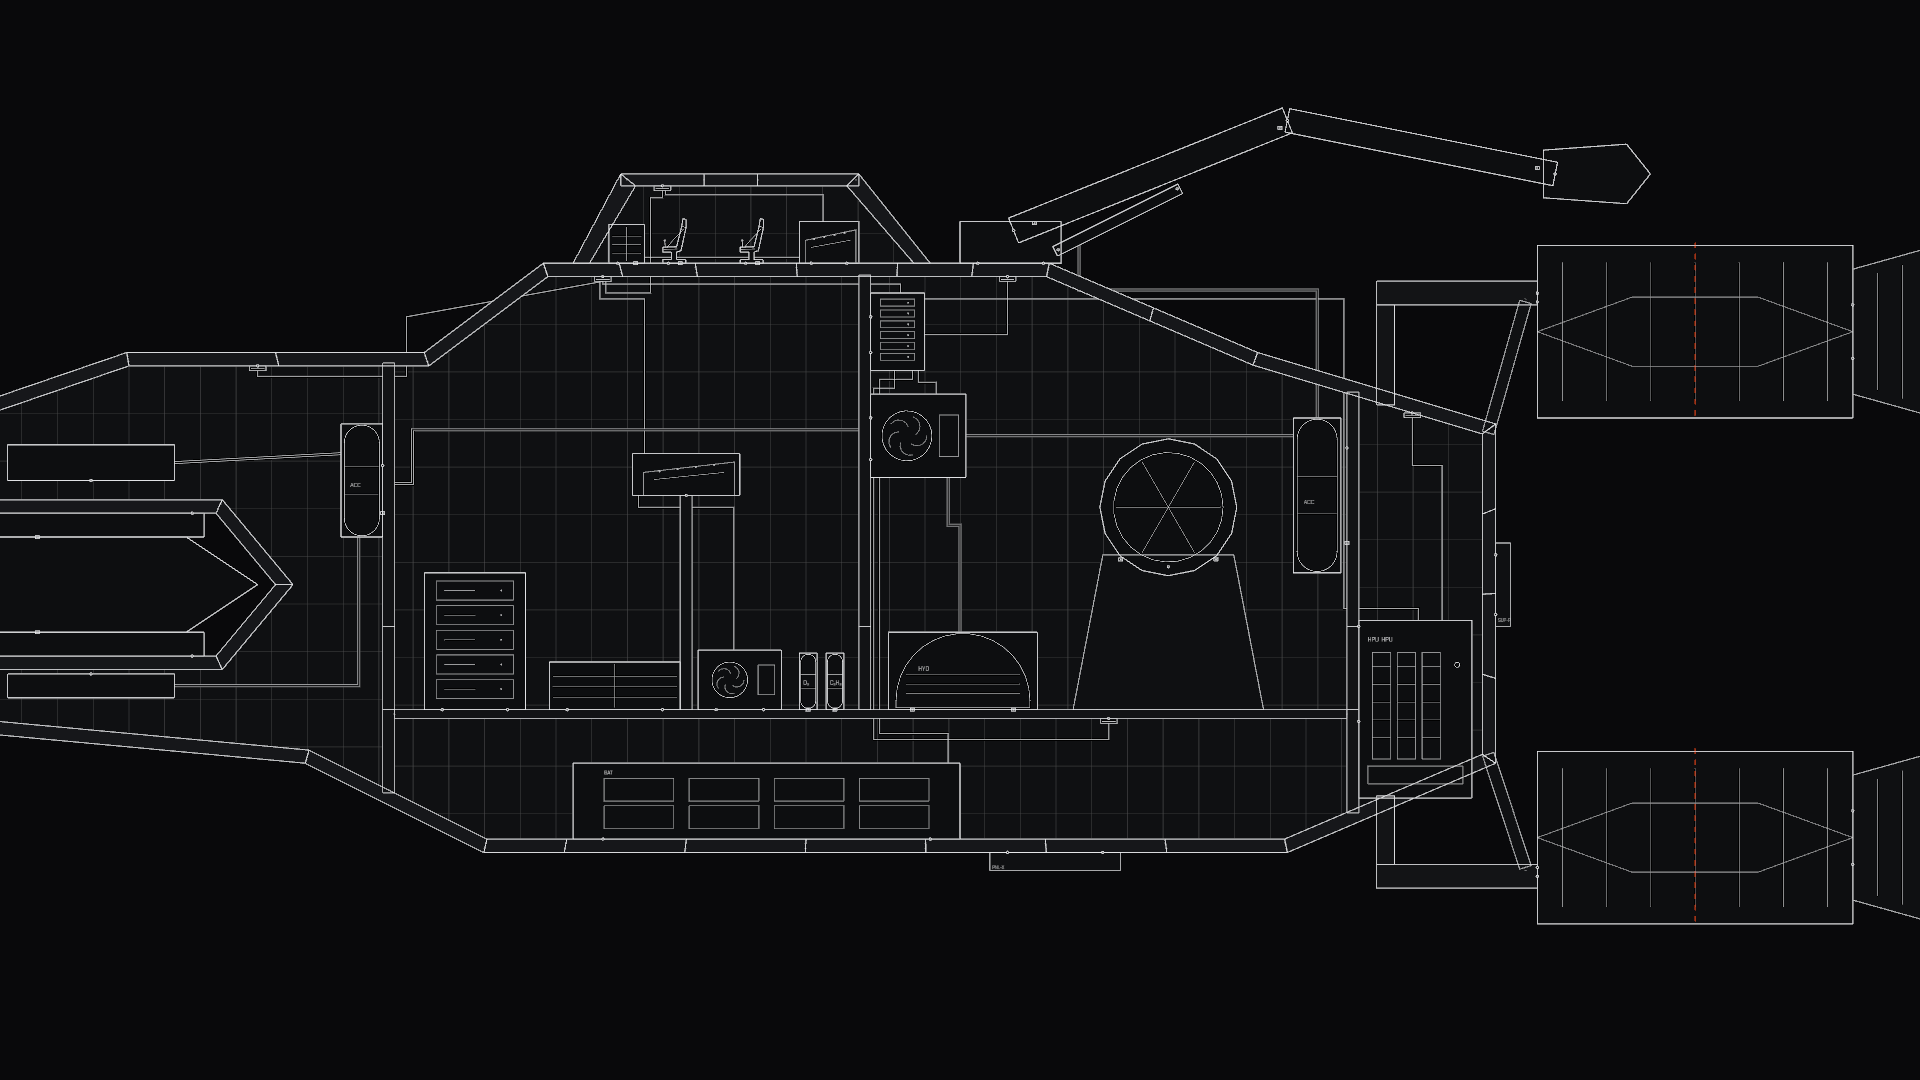
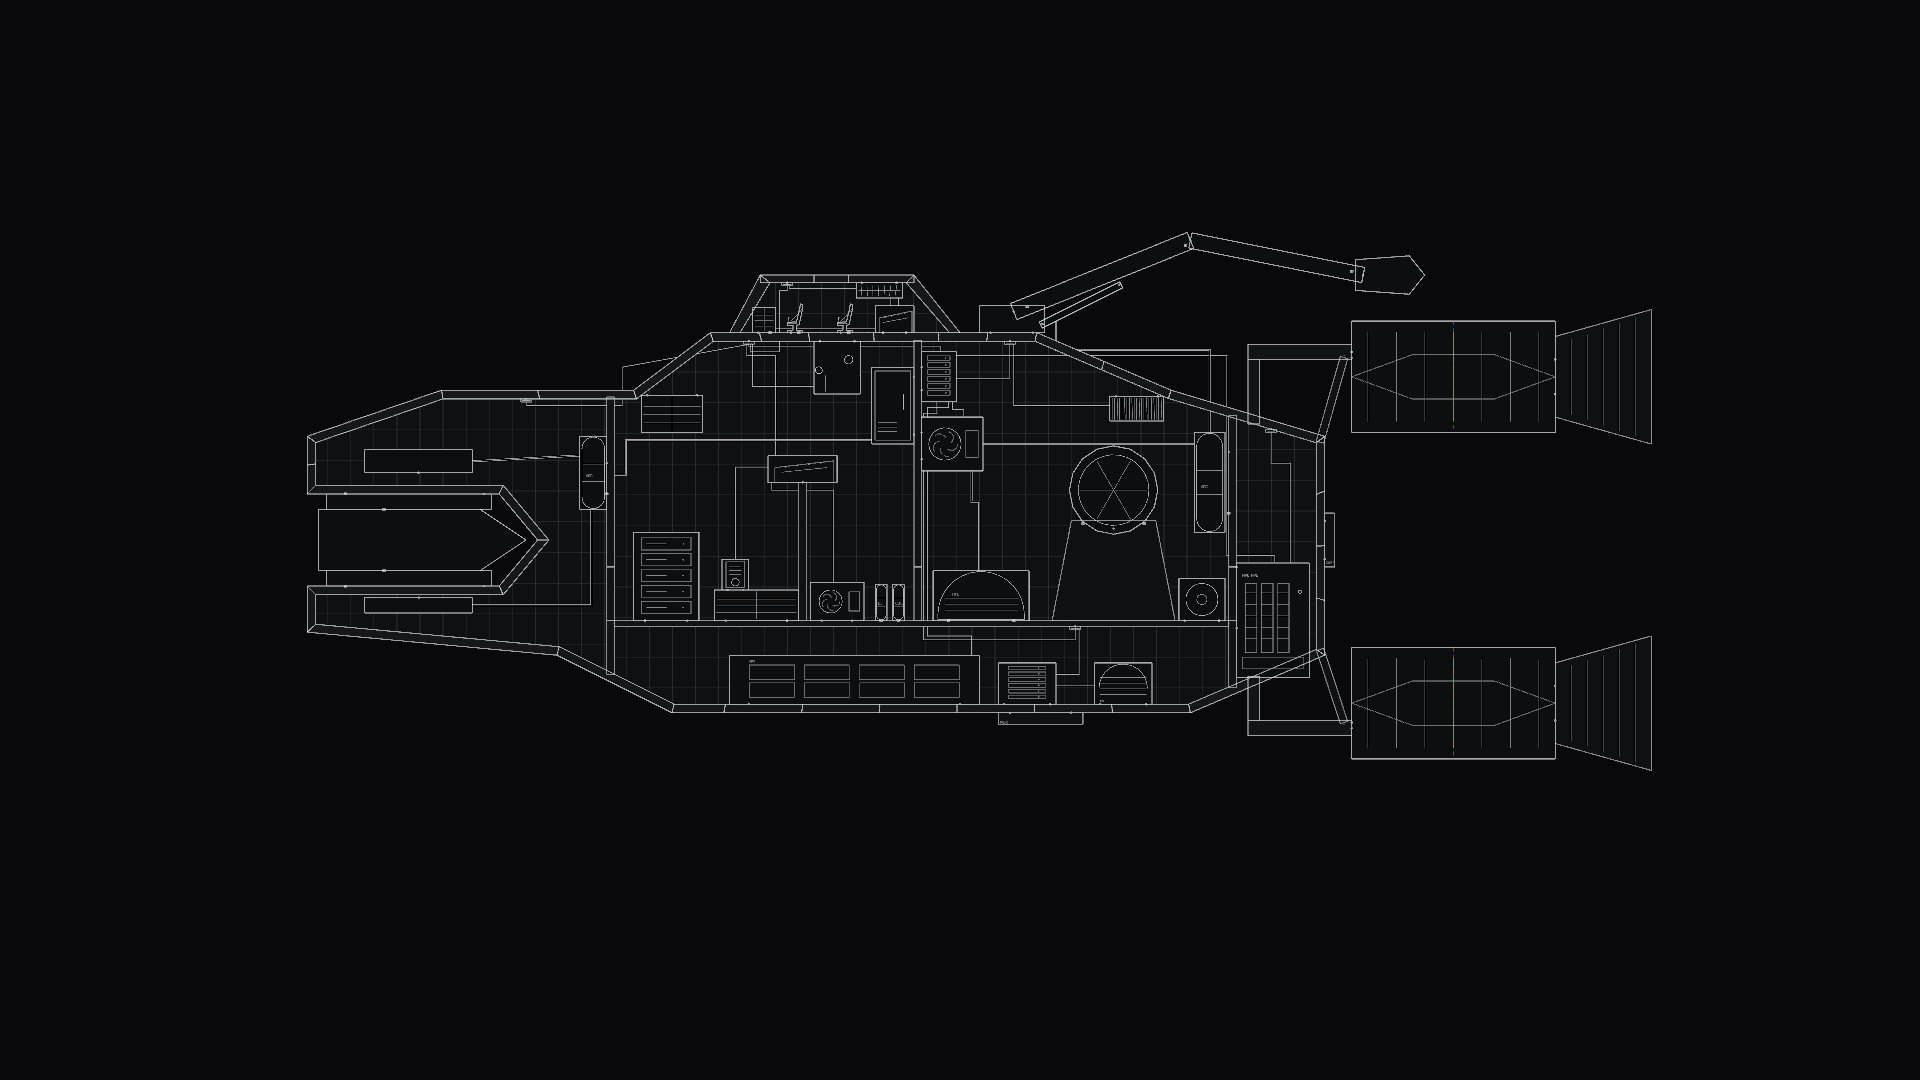
Fill TW-64 and JD-38 interiors
TW-64: a tool wall, hoist, stores and pillar drill in the workshop, an oil
cooler and a spare tow line in the hydraulics room, an inverter and charger
in the battery bay, a radar display on the bridge. JD-38: a mail cabinet and
parcel scanner high in the hold, stores and a transfer pump under the lower
rail, a water tank under the deck, all clear of the boxes' run.

diff --git a/design/ships/TW-64_磐石_实装记录.md b/design/ships/TW-64_磐石_实装记录.md
@@ -4,7 +4,7 @@
 
 ## 实装
 
-- 造船脚本 `tools/authoring/tw64_author.gd` → `ships/tw64.json`：96 件、171 个固定点、19 条线路、24 个接口、6 个舱。总长 70 m（船体 53 m + 尾后两台外挂动力吊舱），要 88 m 船坞。
+- 造船脚本 `tools/authoring/tw64_author.gd` → `ships/tw64.json`：105 件、189 个固定点、25 条线路、24 个接口、6 个舱（内饰加密后）。总长 70 m（船体 53 m + 尾后两台外挂动力吊舱），要 88 m 船坞。
 - 外形：钝首，舰首切出拖带锁喉（上下两片唇）；顶上的观察驾驶舱；顶后折叠的三关节维修臂；舰尾后一上一下两台外挂动力吊舱，各由一根支柱、一根吊梁、一根斜拉杆挂着。
 - 舱室：F 锁喉机舱（绕着喉口、伸进两片唇里：两根夹块油缸、锁喉蓄能器）；W 维修工坊（备件架、工作台、车床、工坊控制台、两只焊接气瓶）；H 液压与卷扬舱（液压油箱、液压泵、卷扬机、维修臂蓄能器、配电盘）；L 甲板下电池舱；A 尾部液压动力舱；B 观察驾驶舱（两座、驾驶台、强制目标拖带日志机）。
 - 特化：**按受力顺序释放**（复用 H-22 的预载机构，加一个新的「对称卸载」）
@@ -12,9 +12,12 @@
   - 锁喉夹块还夹着上一单的拖带眼板，受力来自卷扬机的缆：刹车没松、夹块锁销没拔、锁喉蓄能器没泄压，任何一个没做就拆夹块枢轴，夹块弹开；
   - 维修臂靠油缸和自己的蓄能器折着：先泄压、再拔每个关节的锁销，最后拆枢轴；
   - 两台外挂吊舱重量全在尾后、一上一下：先在舰尾设船体支撑（开关），或者两台一起拆；只拆一台、另一台还挂着，船体被拽扭，剩下那台的吊梁、支柱、拉杆和吊舱本身受损。
-- 市场：TW 级「磐石级维修拖船」，声望 7 起出现；标准用时 32 分钟，合同价值约 $190,000。
+- 市场：TW 级「磐石级维修拖船」，声望 7 起出现；标准用时 36 分钟，合同价值约 $221,900（加密前 $190,000）。
 
-## 和参考图的出入
+## 内饰加密（2026-10-19 玩家反馈：大船不能又大又空）
+
+- 设备从 27 件加到 36 件：车间的工具墙、吊葫芦、物料柜、工作台上的台钻；液压间的油冷却器和备用拖缆卷；电池舱的逆变器和充电器；驾驶台的雷达显示；新增 6 条电缆。
+- 两台发动机吊舱 4.2 t 导出时自动各加一条切割标线。
 
 - 喉口里加了上一单的「拖带眼板」，让锁喉有东西可夹、受力有来源。
 - 维修工坊的大窗、外部 WINCH 牌照没做成装饰件；卷扬机做在舱里。
@@ -25,3 +28,4 @@
 - `tests/tw64_check.gd`：12 项全过（张力表读数、刹车没松先拆夹块会弹、正确顺序安静拆下、臂没泄压会弹、泄压拔销后安静、单拆一台吊舱会扭、设支撑后不扭、存档）。
 - 机器人快拆：回收率 99.9%，无事故；随机合同 24 张，0 张丢弃，抽 8 张实拆 8/8（97–100%）。
 - 截图：`design/ships/TW-64_磐石_剖面.png`。
+- 加密后重测：验证 13 项全过、`tests/tw64_check.gd` 全过；机器人快拆 97.8%，无事故；随机合同 8/8，消防瓶 3/3（备用拖缆卷第一次压到了消防瓶事故的位置，合同静态检查全部拒掉，挪开后通过）。

diff --git a/design/ships/JD-38_斑鸠_实装记录.md b/design/ships/JD-38_斑鸠_实装记录.md
@@ -4,7 +4,7 @@
 
 ## 实装
 
-- 造船脚本 `tools/authoring/jd38_author.gd`（用共享工具库 kit.gd）→ `ships/jd38.json`：63 件、110 个固定点、12 条线路、17 个接口、4 个舱。
+- 造船脚本 `tools/authoring/jd38_author.gd`（用共享工具库 kit.gd）→ `ships/jd38.json`：68 件、120 个固定点、13 条线路、17 个接口、4 个舱（内饰加密后）。
 - 外形：低矮楔形机身、抬高的驾驶舱罩（顶上有舱口）、平直的货舱顶、舰尾斜面；主推进器吊在舰尾下方两根吊架上，腹部两条伸缩支脚。
 - 舱室：C 驾驶舱（两座、导航台、航电柜、通信面板、强制目标飞行记录仪 FDR）；M 设备舱在驾驶甲板下（主电池、环控机组、配电盒、氧气瓶，腹部舱口进）；H 货舱（双滑轨、两箱整件快货、燃料箱）；L 货运气闸（锁轨控制板，舰尾货门）。
 - 特化：**锁轨货物**（新模块 `scripts/rails.gd`）
@@ -14,7 +14,11 @@
   - 切到还托着货箱的滑轨：货箱跟着被扯坏（约掉一半成色）；
   - 舱没放气就开门：会爆开（已有机制）。
 - 主电池有自己的开关（在设备舱里）和外部面板上的独立测点；只有电池开关断开，总线才读零。
-- 市场：JD 级「斑鸠级快件艇」，声望 2 起出现，标准船坞就能接；标准用时 18 分钟，合同价值约 $98,000。
+- 市场：JD 级「斑鸠级快件艇」，声望 2 起出现，标准船坞就能接；标准用时 20 分钟，合同价值约 $111,000（加密前 $98,000）。
+
+## 内饰加密（2026-10-19 玩家反馈）
+
+- 设备从 14 件加到 19 件，全部避开两条滑轨上货箱滑出去的通道：货舱前上角隔壁上的上锁邮件柜、舱顶的包裹扫描仪，下滑轨下面的物料柜和推进剂输送泵，机舱甲板下的淡水箱；新增 1 条电缆。
 
 ## 和参考图的出入
 
@@ -28,3 +32,4 @@
 - `tests/jd38_check.gd`：全过（扳手卸不了锁轨、切轨扯坏货箱、开门放锁货箱整件滑出舰尾、门关着放锁会撞、存档记得放过的轨道、电池开关、断电后门不动、插船坞电源门又能动）。
 - 机器人快拆：回收率 95.5%，无事故，无强制；随机合同 24 张，0 张被丢弃，抽 8 张实拆，一轮 7/8（一次 $884 磕碰，快拆模式下的物理偶发）、复跑 8/8。
 - 截图：`design/ships/JD-38_斑鸠_剖面.png`。
+- 加密后重测：验证 13 项全过、`tests/jd38_check.gd` 全过；机器人快拆 99.9%，无事故；随机合同 8/8，消防瓶 3/3。
